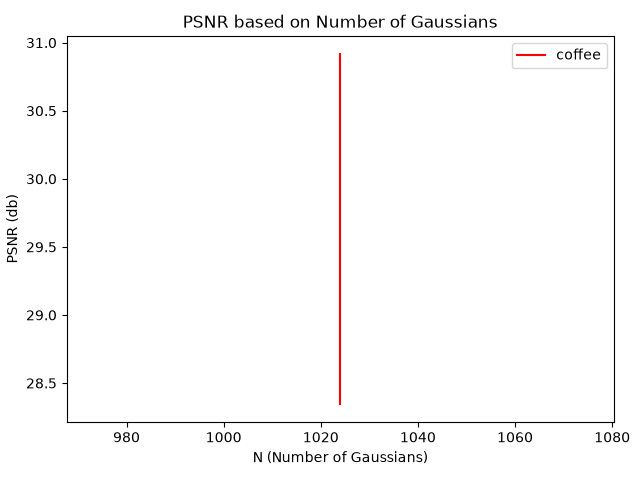
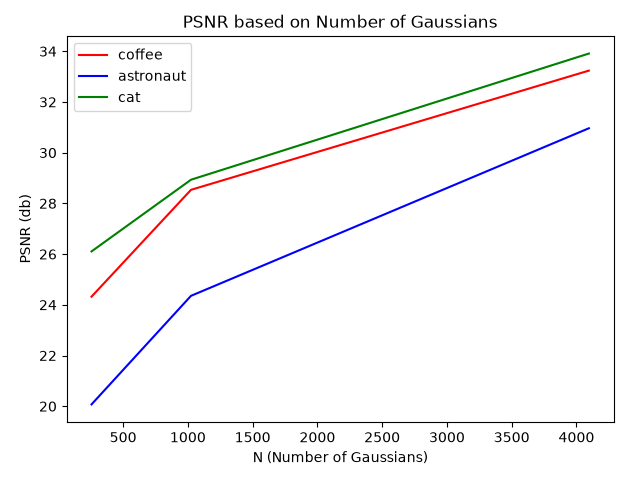
finished P5

diff --git a/gaussian_3D.py b/gaussian_3D.py
@@ -45,3 +45,13 @@ def covariance_3d(scale, quat):
     R = quaternion_to_rotation(quat)
     S = torch.diag_embed(scale)
     return R @ S @ S.mT @ R.mT
+
+def project_gaussian(mu3, Sigma3, R_wc, t, K):
+    # mu3: (N, 3) world means,  Sigma3: (N, 3, 3) world covariances
+    mu_cam = mu3 @ R_wc.T + t                  # world -> camera
+    # TODO: mu2   = perspective-project mu_cam with K            (N, 2)
+    # TODO: J     = Jacobian of the projection at mu_cam         (N, 2, 3)
+    # TODO: Scam  = R_wc @ Sigma3 @ R_wc.T                       (N, 3, 3)
+    #       Sig2 = J @ Scam @ J.transpose(-1, -2)                (N, 2, 2)
+    depth = mu_cam[:, 2]
+    return mu2, Sig2, depth
